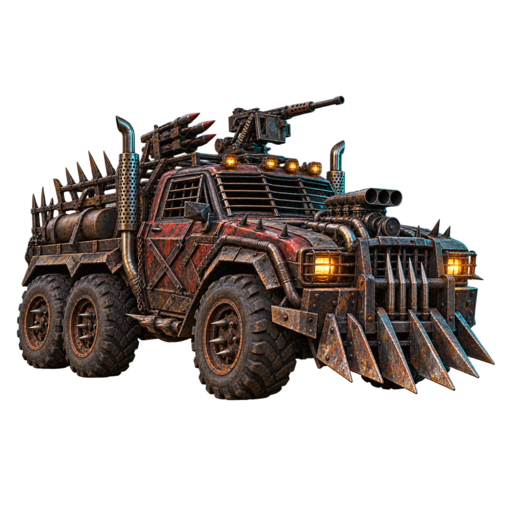
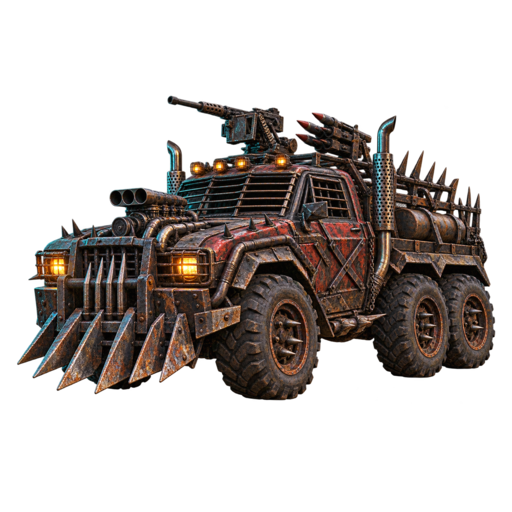
Refine helper attention and Marauder direction

diff --git a/html/verbia.html b/html/verbia.html
@@ -258,9 +258,10 @@
     .hint-button,.daily-bubble,.dictionary-button { position:relative; inset:auto; width:52px; height:52px; display:grid; place-items:center; padding:0; border:0; border-radius:0; color:#102019; background:transparent; box-shadow:none; font-size:1.7rem; line-height:1; cursor:pointer; pointer-events:auto; }
     .daily-bubble { margin-left:auto; }
     .dictionary-button { width:46px; height:46px; }
-    .dictionary-button { position:absolute; left:3px; bottom:44px; }
+    .dictionary-button { position:absolute; left:3px; bottom:56px; }
     .dictionary-button img { width:43px; height:43px; object-fit:contain; filter:drop-shadow(0 2px 4px rgba(0,0,0,.55)); }
     .dictionary-button.available { animation:dictionaryPulse .85s ease-in-out infinite alternate; }
+    .hint-button.available { animation:dictionaryPulse .85s ease-in-out infinite alternate; }
     .daily-bubble.available { animation:dictionaryPulse .85s ease-in-out infinite alternate; }
     @keyframes dictionaryPulse { to { transform:scale(1.13); filter:brightness(1.28) drop-shadow(0 0 10px var(--gold)); } }
     .bubble-icon { display:block; translate:0 -1px; filter:drop-shadow(0 1px 1px rgba(0,0,0,.24)); }
@@ -1783,7 +1784,7 @@
       }
 
       function freshProgress(profileCreated = false) {
-        return { profileCreated, currentLevel:1, highestLevel:1, boards:{}, levelBoards:{}, signatures:[], hintHistory:{}, points:0, hints:{date:todayKey(),count:3}, darts:0, dartNotice:false, dailyRewardDate:"", helpers:{dictionary:true,dictionarySeen:false}, inventory:{owned:[],equipped:{}}, wardrobeBaseVersion:4, avatarCatalogVersion:1, unlockedAvatars:["rx7","nova"], seed:Math.floor(Math.random() * 2147483647) || 9173 };
+        return { profileCreated, currentLevel:1, highestLevel:1, boards:{}, levelBoards:{}, signatures:[], hintHistory:{}, points:0, hints:{date:todayKey(),count:3}, hintNotice:false, darts:0, dartNotice:false, dailyRewardDate:"", helpers:{dictionary:true,dictionarySeen:false}, inventory:{owned:[],equipped:{}}, wardrobeBaseVersion:4, avatarCatalogVersion:1, unlockedAvatars:["rx7","nova"], seed:Math.floor(Math.random() * 2147483647) || 9173 };
       }
 
       function letterCountForLevel(level) {
@@ -2411,6 +2412,7 @@
         dailyBubble.classList.toggle("available", Boolean(progress.dartNotice && availableDarts > 0));
         dictionaryButton.hidden = !progress.helpers?.dictionary;
         dictionaryButton.classList.toggle("available", Boolean(progress.helpers?.dictionary && !progress.helpers?.dictionarySeen));
+        hintButton.classList.toggle("available", Boolean(progress.hintNotice && (progress.hints?.count || 0) > 0));
         renderWallet();
         if (changed && profileExists) saveProgress();
       }
@@ -2430,6 +2432,7 @@
         progress.inventory ||= {owned:[],equipped:{}};
         progress.helpers ||= {dictionary:true,dictionarySeen:false};
         progress.helpers.dictionary = true;
+        if (typeof progress.hintNotice !== "boolean") progress.hintNotice = false;
         if (!Number.isFinite(progress.darts)) progress.darts = 0;
         if (!Array.isArray(progress.inventory.owned)) progress.inventory.owned = [];
         progress.inventory.equipped ||= {};
@@ -2658,7 +2661,10 @@
         }
         progress.points -= cost;
         if (helperId === "dictionary") progress.helpers.dictionary = true;
-        if (helperId === "hints") progress.hints.count = (progress.hints.count || 0) + 3;
+        if (helperId === "hints") {
+          progress.hints.count = (progress.hints.count || 0) + 3;
+          progress.hintNotice = true;
+        }
         if (helperId === "dart") {
           progress.darts = (progress.darts || 0) + 1;
           progress.dartNotice = true;
@@ -2889,6 +2895,11 @@
 
       function useHint() {
         if (isCurrentBoardMastered()) return;
+        if (progress.hintNotice) {
+          progress.hintNotice = false;
+          hintButton.classList.remove("available");
+          saveProgress();
+        }
         refreshDailyState();
         if ((progress.hints?.count || 0) < 1) {
           showToast("Your three daily hints return tomorrow", "duplicate");
